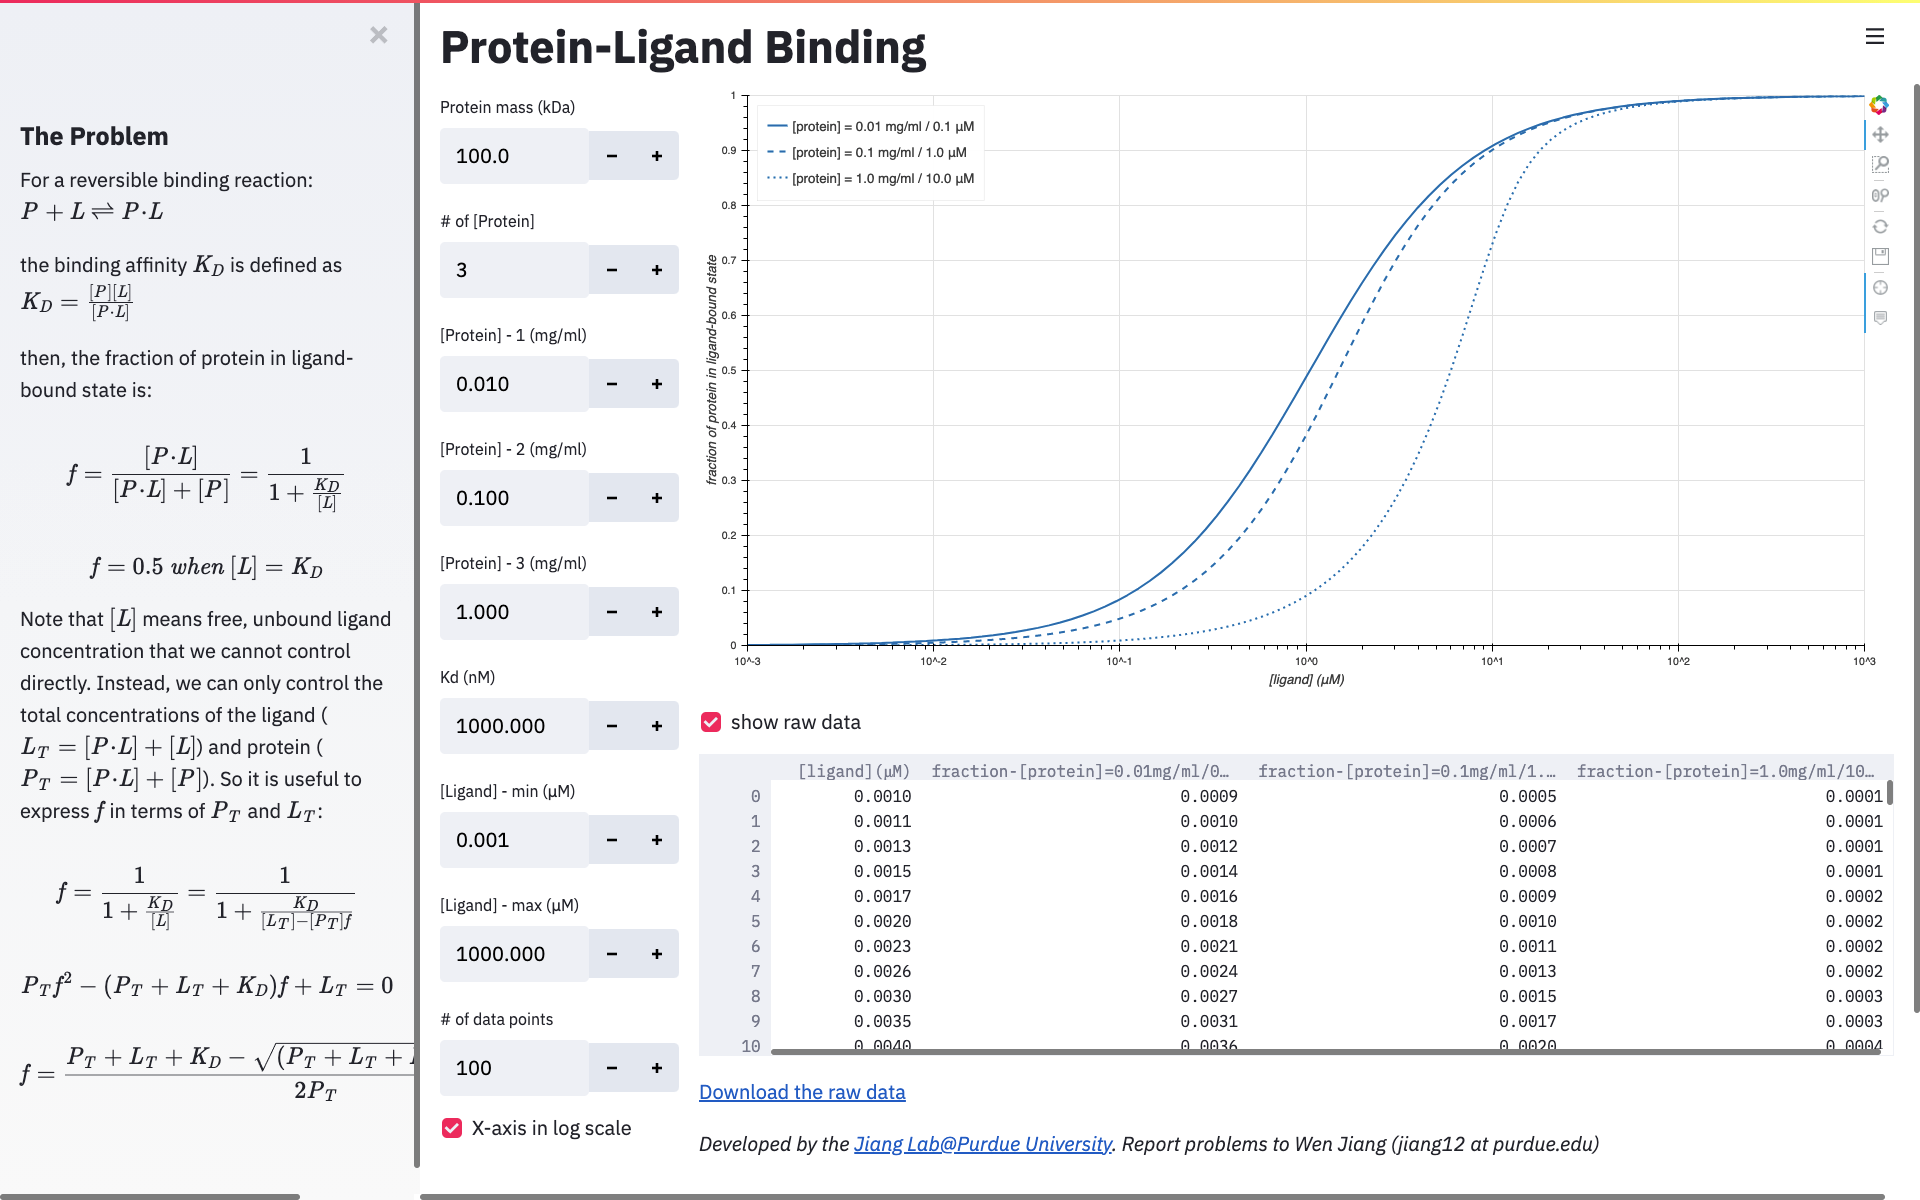
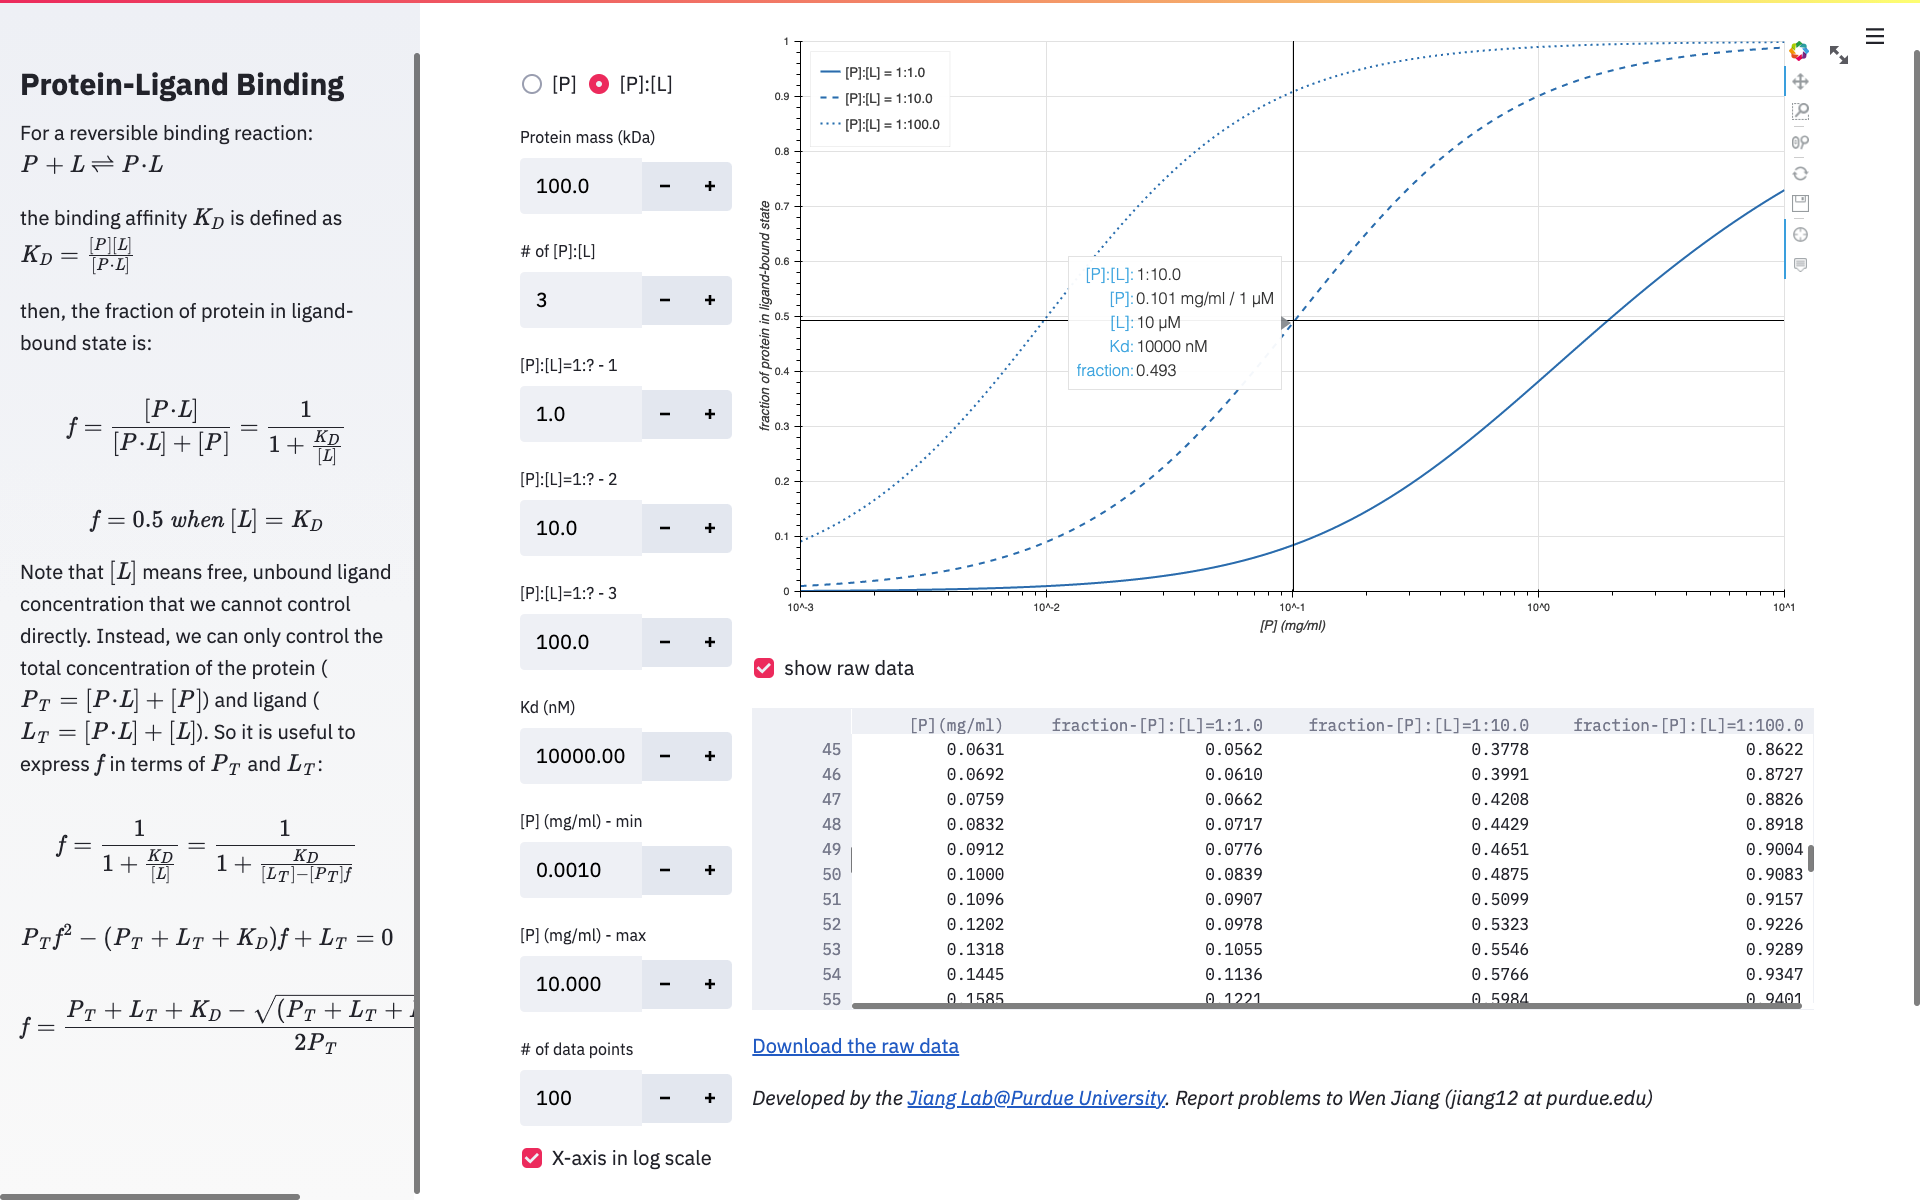
add P:L ratio mode

diff --git a/protein_ligand_binding.py b/protein_ligand_binding.py
@@ -40,14 +40,15 @@ import_with_auto_install(required_packages)
 
 import streamlit as st
 import numpy as np
+from bokeh.plotting import figure
+from bokeh.models import LegendItem
 
 def main():
     title = "Protein-Ligand Binding"
     st.set_page_config(page_title=title, layout="wide")
-    st.title(title)
 
     with st.sidebar:    # sidebar at the left of the screen
-        st.header('The Problem')
+        st.title(title)
         st.write(r'For a reversible binding reaction:$P + L\  {\rightleftharpoons}\  P{\cdot}L$')
         st.write(r"the binding affinity $K_D$ is defined as$K_D = \frac{[P][L]}{[P {\cdot}L]}$")
         st.write(r'then, the fraction of protein in ligand-bound state is:')
@@ -58,56 +59,101 @@ def main():
         st.latex(r'P_Tf^2-(P_T+L_T+K_D)f+L_T=0')
         st.latex(r'f=\frac{P_T+L_T+K_D-\sqrt{(P_T+L_T+K_D)^2-4P_TL_T}}{2P_T}')
         
+        # make radio display horizontal
+        st.markdown('<style>div.row-widget.stRadio > div{flex-direction:row;}</style>', unsafe_allow_html=True)
+
     # right-side main panel
     col1, col2 = st.beta_columns((1, 5))
     with col1:
+        mode = st.radio(label="", options=["[P]", "[P]:[L]"], index=0)
         m = st.number_input('Protein mass (kDa)', value=100.0, min_value=10.0, step=10.0, format="%.1f")
-        n = st.number_input('# of [Protein]', value=3, min_value=1, step=1)
-        ps = [0] * n
-        for i in range(n):
-            c = 0.01 * np.power(10, i)
-            ps[i] = st.number_input(f'[Protein] - {i+1} (mg/ml)', value=c, min_value=0.0, step=0.1, format="%.3f")
-        kd = st.number_input('Kd (nM)', value=1000.0, min_value=0.0, step=1.0, format="%.3f")
-        lmin = st.number_input('[Ligand] - min (μM)', value=1e-3*kd*1e-3, min_value=0.0, step=1.0, format="%.3f")
-        lmax = st.number_input('[Ligand] - max (μM)', value=1e3*kd*1e-3, min_value=lmin*1e4, step=1.0, format="%.3f")
+        if mode == "[P]":
+            n = st.number_input('# of [P]', value=3, min_value=1, step=1)
+            ps = [0] * n
+            for i in range(n):
+                c = 0.01 * np.power(10, i)
+                ps[i] = st.number_input(f'[P] (mg/ml) - {i+1}', value=c, min_value=0.0, step=0.1, format="%.3f")
+            ps = np.unique([ p for p in ps if p>0 ])
+            kd = st.number_input('Kd (nM)', value=1000.0, min_value=0.0, step=1.0, format="%.3f")
+            p_molar_min = ps.min()/m * 1e3 # mg/ml -> μM
+            p_molar_max = ps.max()/m * 1e3 # mg/ml -> μM
+            lmin = st.number_input('[L] (μM) - min', value=p_molar_min*1e-2, min_value=0.0, step=p_molar_min*1e-2, format="%.3f")
+            lmax = st.number_input('[L] (μM) - max', value=p_molar_max*1e2, min_value=lmin*1e4, step=p_molar_max, format="%.3f")
+        else:   # "[P]:[L]"
+            n = st.number_input('# of [P]:[L]', value=3, min_value=1, step=1)
+            ratios = [1.0] * n
+            for i in range(n):
+                ratio = 1.0 * np.power(10, i)
+                ratios[i] = st.number_input(f'[P]:[L]=1:? - {i+1}', value=ratio, min_value=0.0, step=1.0, format="%.1f")
+            ratios = np.unique([ r for r in ratios if r>0 ])
+            kd = st.number_input('Kd (nM)', value=1000.0, min_value=0.0, step=1.0, format="%.3f")
+            pmin = st.number_input('[P] (mg/ml) - min', value=0.001, min_value=0.0, step=0.01, format="%.4f")
+            pmax = st.number_input('[P] (mg/ml) - max', value=10.0, min_value=pmin*10.0, step=0.1, format="%.3f")
         n_data_points = st.number_input('# of data points', value=100, min_value=10, step=10)
         xlog = st.checkbox('X-axis in log scale', value=True)
-
-    with col2:
-        ps = [ p for p in ps if p>0 ]
-        if xlog:
-            l = np.logspace(np.log10(lmin), np.log10(lmax), n_data_points+1)
-        else:
-            l = np.linspace(lmin, lmax, n_data_points+1)
-        l_molar = l * 1e-6  # μM -> M
+        
         kd_molar = kd * 1e-9    # nM -> M
 
-        from bokeh.plotting import figure
-        from bokeh.models import LegendItem
-        x_label = "[ligand] (μM)"
+    with col2:
         y_label = "fraction of protein in ligand-bound state"
         x_axis_type = "log" if xlog else "linear"
-
         tools = 'box_zoom,crosshair,hover,pan,reset,save,wheel_zoom'
-        hover_tips = [("[ligand]", "$x μM"), ("fraction", "$y")]
-        fig = figure(title="", x_axis_type=x_axis_type, x_axis_label=x_label, y_axis_label=y_label, tools=tools, tooltips=hover_tips)
-
-        ll_line_dashes = 'solid dashed dotted dotdash dashdot'.split()
+        line_dashes = 'solid dashed dotted dotdash dashdot'.split()
         legends = []
         raw_data = []
-        for pi, p in enumerate(ps):
-            p_molar = p/(m*1e3) # mg/ml -> M
-            f = binding_fraction(kd=kd_molar, protein_concentration=p_molar, ligand_concentration=l_molar)
-            source = dict(x=l, y=f)
-            line_dash = ll_line_dashes[pi%len(ll_line_dashes)]
-            line_width = 2
-            line = fig.line(x='x', y='y', source=source, line_dash=line_dash, line_width=line_width)
-            label = f"[protein] = {float(round(p,3))} mg/ml / {float(round(p_molar*1e6,3))} μM"
-            legends.append(LegendItem(label=label, renderers=[line]))
-            raw_data.append((label, f))
+        if mode == "[P]":
+            if xlog:
+                l = np.logspace(np.log10(lmin), np.log10(lmax), n_data_points+1)
+            else:
+                l = np.linspace(lmin, lmax, n_data_points+1)
+            l_molar = l * 1e-6  # μM -> M
 
-        fig.x_range.start = l[0]
-        fig.x_range.end = l[-1]
+            x = l
+            x_label = "[L] (μM)"
+
+            hover_tips = [("[P]:[L]", "1:@ratio"), ("[P]", "@p_txt"), ("[L]", "$x μM"), ("Kd", "@kd nM"), ("fraction", "$y")]
+            fig = figure(title="", x_axis_type=x_axis_type, x_axis_label=x_label, y_axis_label=y_label, tools=tools, tooltips=hover_tips)
+
+            for pi, p in enumerate(ps):
+                p_molar = p/(m*1e3) # mg/ml -> M
+                p_txt = f"{float(round(p,3))} mg/ml / {float(round(p_molar*1e6,3))} μM"
+                ratio = (l_molar/p_molar).round(1)
+                f = binding_fraction(kd=kd_molar, protein_concentration=p_molar, ligand_concentration=l_molar)
+                source = dict(x=x, y=f, p_txt=[p_txt]*len(x), ratio=ratio, kd=[kd]*len(x))
+                line_dash = line_dashes[pi%len(line_dashes)]
+                line_width = 2
+                line = fig.line(x='x', y='y', source=source, line_dash=line_dash, line_width=line_width)
+                label = f"[P] = {p_txt}"
+                legends.append(LegendItem(label=label, renderers=[line]))
+                raw_data.append((label, f))        
+            fig.x_range.start = l[0]
+            fig.x_range.end = l[-1]
+        else:   # "[P]:[L]"
+            if xlog:
+                p = np.logspace(np.log10(pmin), np.log10(pmax), n_data_points+1)
+            else:
+                p = np.linspace(min, pmax, n_data_points+1)
+            p_molar = p / (m*1e3)  # mg/ml -> M
+
+            x = p
+            x_label = "[P] (mg/ml)"
+
+            hover_tips = [("[P]:[L]", "@ratio_txt"), ("[P]", "$x mg/ml / @x_mc μM"), ("[L]", "@l μM"), ("Kd", "@kd nM"), ("fraction", "$y")]
+            fig = figure(title="", x_axis_type=x_axis_type, x_axis_label=x_label, y_axis_label=y_label, tools=tools, tooltips=hover_tips)
+
+            for ri, r in enumerate(ratios):
+                ratio_txt = f"1:{float(round(r,1))}"
+                l_molar = p_molar * r
+                f = binding_fraction(kd=kd_molar, protein_concentration=p_molar, ligand_concentration=l_molar)
+                source = dict(x=x, y=f, x_mc=p_molar*1e6, ratio_txt=[ratio_txt]*len(x), l=l_molar*1e6, kd=[kd]*len(x))
+                line_dash = line_dashes[ri%len(line_dashes)]
+                line_width = 2
+                line = fig.line(x='x', y='y', source=source, line_dash=line_dash, line_width=line_width)
+                label = f"[P]:[L] = {ratio_txt}"
+                legends.append(LegendItem(label=label, renderers=[line]))
+                raw_data.append((label, f))
+            fig.x_range.start = p[0]
+            fig.x_range.end = p[-1]        
         fig.y_range.start = 0
         fig.y_range.end = 1
         fig.yaxis[0].ticker.desired_num_ticks = 10
@@ -133,8 +179,8 @@ def main():
         show_data = st.checkbox('show raw data', value=False)
         if show_data:
             import pandas as pd
-            data = np.zeros((len(l), 1+len(raw_data)))
-            data[:, 0] = l
+            data = np.zeros((len(x), 1+len(raw_data)))
+            data[:, 0] = x
             columns = [x_label]
             for i, (label, f) in enumerate(raw_data):
                 data[:, 1+i] = f
@@ -173,7 +219,7 @@ def setup_anonymous_usage_tracking():
         index_file.chmod(stat.S_IRUSR|stat.S_IWUSR|stat.S_IRGRP|stat.S_IROTH)
         txt = index_file.read_text()
         if txt.find("gtag/js?")==-1:
-            txt = txt.replace("<head>", '''<head><script async src="https://www.googletagmanager.com/gtag/js?id=G-8Z99BDVHTC"></script><script>window.dataLayer = window.dataLayer || [];function gtag(){dataLayer.push(arguments);}gtag('js', new Date());gtag('config', 'G-8Z99BDVHTC');</script>''')
+            txt = txt.replace("<head>", '''<head><script async src="https://www.googletagmanager.com/gtag/js?id=G-6ZB67M09Q9"></script><script>window.dataLayer = window.dataLayer || [];function gtag(){dataLayer.push(arguments);}gtag('js', new Date());gtag('config', 'G-6ZB67M09Q9');</script>''')
             index_file.write_text(txt)
     except:
         pass
